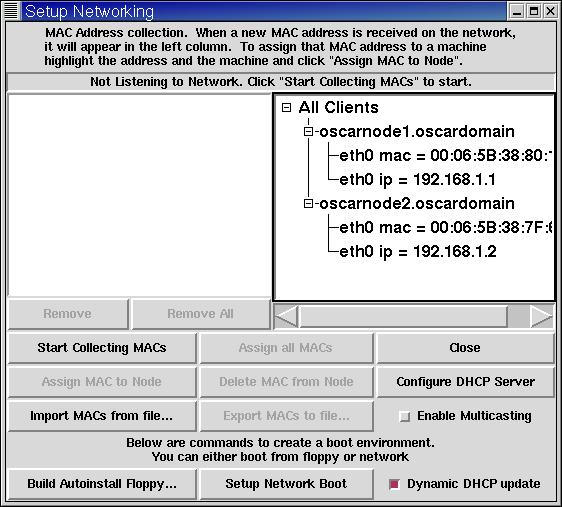
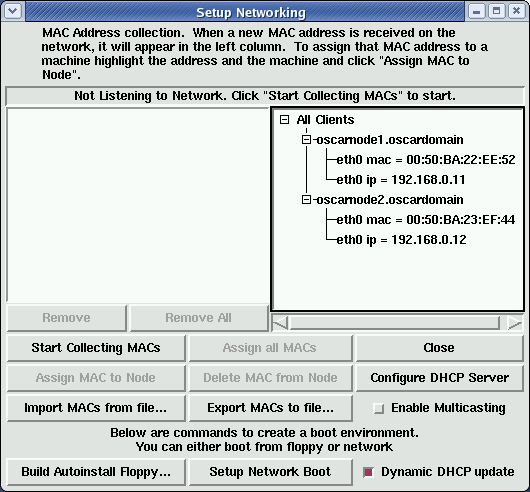
- Screenshots update (taken on FC2 with Gnome desktop) - Changed reference of PBS -> Torque in detailed.tex - Removed sbs-oda-password.png (no longer prompting for password)
git-svn-id: http://svn.oscar.openclustergroup.org/oscar/branches/branch-4-1@3084 18f9d06c-6ae2-0310-8438-938a554feff9

Former-commit-id: 40a62f74a42fe81ff404fca5aa269dd2bbf1beb7

diff --git a/doc/installation/detailed.tex b/doc/installation/detailed.tex
@@ -1172,7 +1172,7 @@ time.
 \label{det:test-cluster}
 
 A simplistic test suite is provided in OSCAR to ensure that the key
-cluster components (OpenSSH, PBS, MPI, PVM, etc.) are functioning
+cluster components (OpenSSH, Torque, MPI, PVM, etc.) are functioning
 properly.
 
 Press the \button{Test Cluster Setup} button. This will open a
@@ -1193,9 +1193,9 @@ checked and then a set of \user{root} and user level tests are run.
     \end{center}
   \end{figure}
 
-  At the beginning of the test, when the PBS server is shut down, you
+  At the beginning of the test, when the Torque server is shut down, you
   may see a benign error message about the \cmd{pbsnodes} command not
-  being able to connect to the PBS server.  This is safe to ignore.
+  being able to connect to the Torque server.  This is safe to ignore.
 
 } % end detail
 
